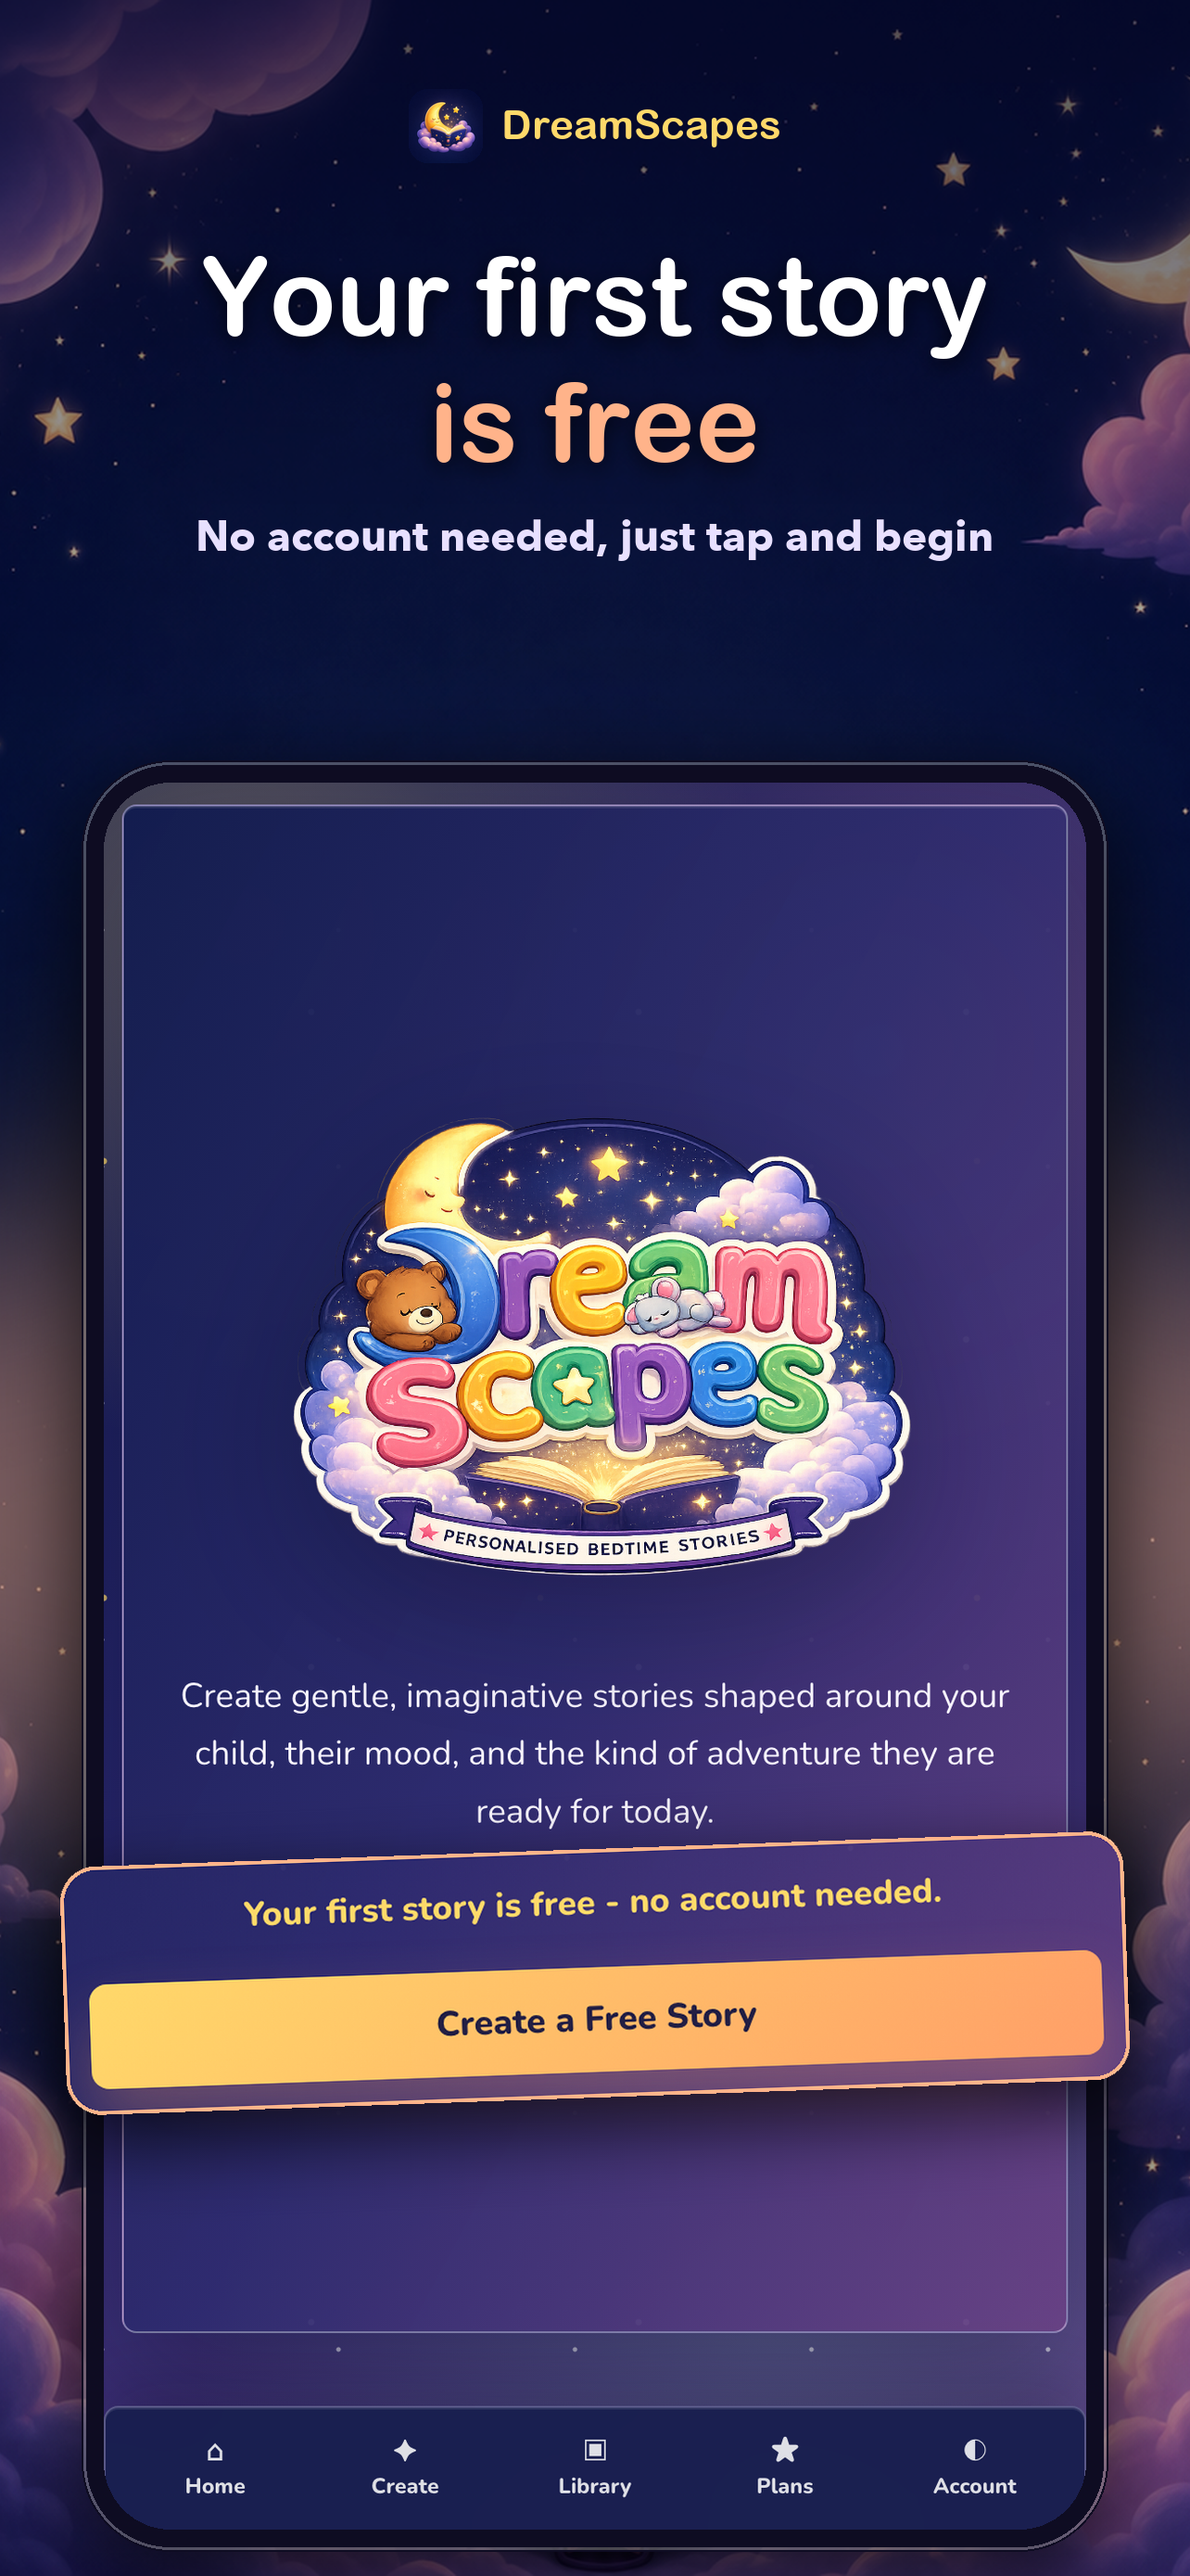
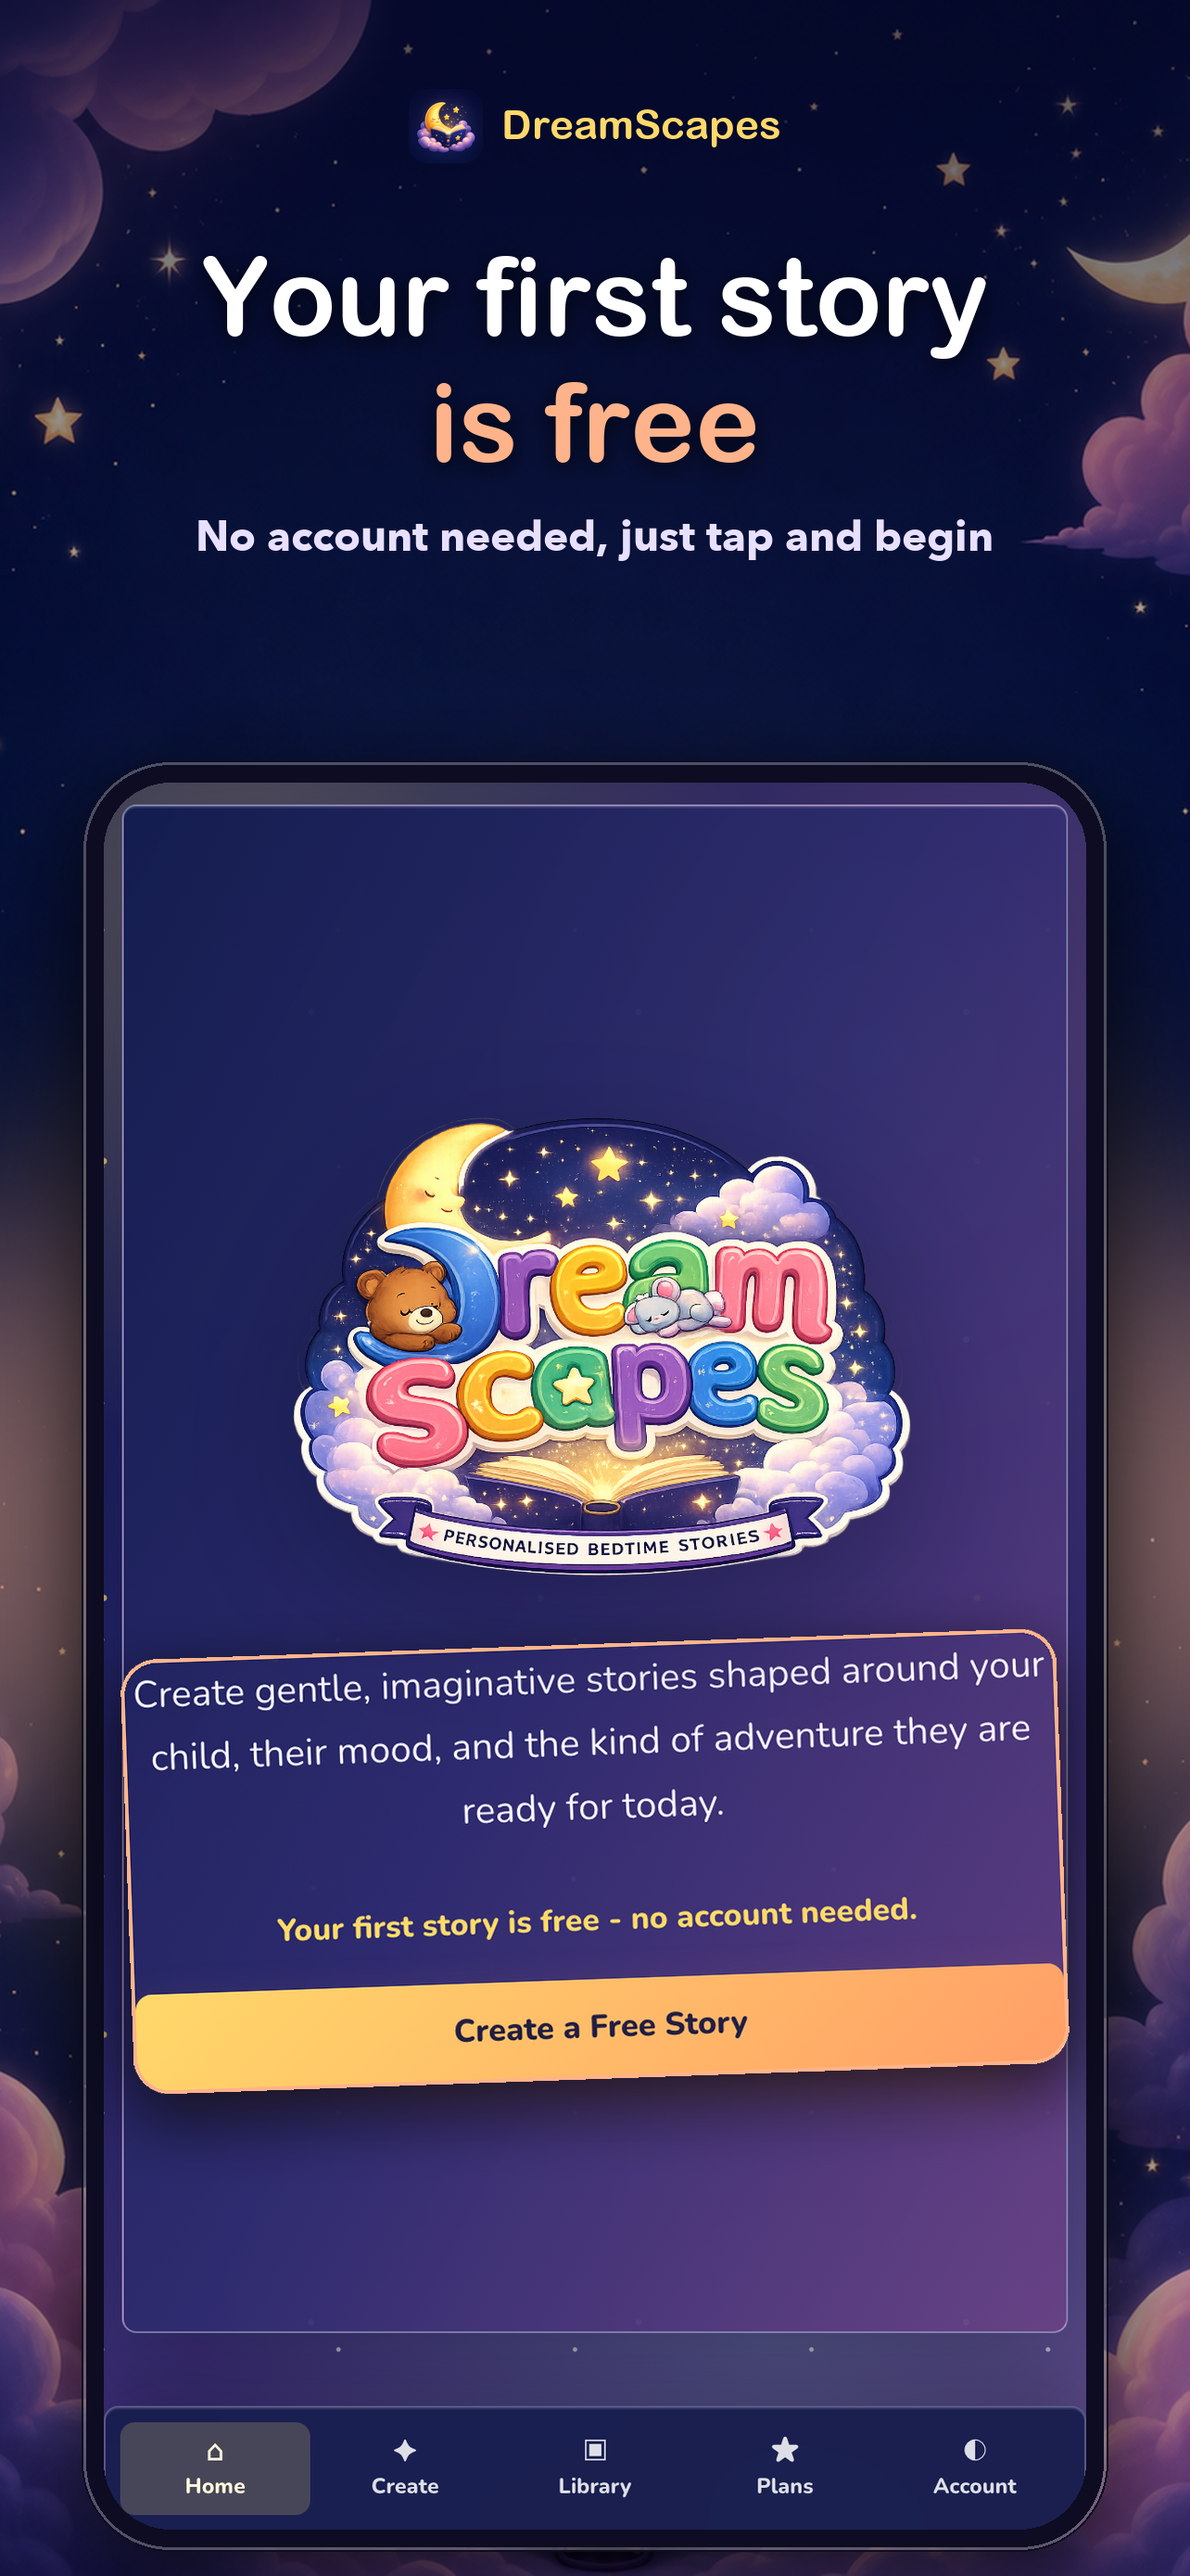
Lead the store with the thing that sells it
Every source is recaptured against the app as it is now - the library had
been photographed as a grid of cards and has been a list for hours, and the
home screen had moved on too.

The set now opens on personalisation rather than on never running out of
stories. The first screenshot is a real story with the child's name through
it, lifted out and enlarged, under "A bedtime story written for them". That
is the thing a parent is deciding about in the two seconds the App Store
gives a search result, and it was previously a subhead on a screenshot about
something else.

The iPhone script gained the per-screen zoom the iPad one already had. At a
fixed 1.2 the library callout could not frame two whole rows, so it cut the
second story in half - which rather undercut a screenshot captioned "night
after night".

Changed region(s): [[0.0312, 0.6192, 0.9657, 0.8359], [0.0935, 0.9287, 0.2804, 0.9906]]

diff --git a/scripts/build-ios-screenshots.py b/scripts/build-ios-screenshots.py
@@ -18,39 +18,39 @@ WIDTH, HEIGHT = 1284, 2778
 SCREEN_W, BEZEL, RADIUS = 1060, 24, 96
 DEVICE_TOP = 820
 
-# (output, source, accent, headline lines, subhead, callout region in source px, tilt,
-#  downward nudge for the callout so it clears the heading above it, badge)
-# Callout regions were measured from the live DOM at 540x960 and doubled for the
-# 2x capture, so each one frames a real piece of the app's UI.
+# (output, source, accent, headline lines, subhead, callout region in source px,
+#  zoom, tilt, downward nudge so the callout clears the heading above it, badge)
+# Regions were measured from the live DOM at 540x960 and doubled for the 2x
+# capture, so each one frames a real piece of the app's UI.
 SCREENS = [
-    ("01-bedtime-story.png", "05-story.png", "gold",
-     [("Never run out of", False), ("a bedtime story", True)],
-     "Personalised stories, starring your child",
-     (90, 1495, 990, 1740), -2, 0, "First story free  \u2022  No account needed"),
-    ("02-first-story-free.png", "01-home.png", "peach",
+    ("01-personalised.png", "story.png", "gold",
+     [("A bedtime story", False), ("written for them", True)],
+     "Their name, their favourite things, their bedtime",
+     (103, 838, 977, 1166), 1.2, -2, 0, "First story free  \u2022  No account needed"),
+    ("02-first-story-free.png", "home.png", "peach",
      [("Your first story", False), ("is free", True)],
      "No account needed, just tap and begin",
-     (56, 1198, 1024, 1419), 2, 0, None),
-    ("03-made-in-a-minute.png", "02-story-builder.png", "pink",
+     (76, 972, 1004, 1399), 1.1, 2, 0, None),
+    ("03-made-in-a-minute.png", "builder1.png", "pink",
      [("Made for tonight,", False), ("in about a minute", True)],
      "Just their name, their age and what they love",
-     (40, 995, 1032, 1205), 2, 45, None),
-    ("04-stories-continue.png", "03-library.png", "lilac",
+     (48, 1004, 1024, 1196), 1.2, 2, 45, None),
+    ("04-stories-continue.png", "library.png", "lilac",
      [("Stories continue", False), ("night after night", True)],
      "Seven-night journeys with the same characters",
-     (50, 515, 1030, 790), -2, 0, None),
-    ("05-calm-narration.png", "06-narration.png", "sky",
+     (58, 522, 1022, 1195), 1.0, -2, 0, None),
+    ("05-calm-narration.png", "narration.png", "sky",
      [("Calm narration", False), ("for lights-out", True)],
      "Seven soothing voices with DreamScapes Plus",
-     (60, 850, 1012, 1160), 2, 25, None),
-    ("06-in-control.png", "04-parent-controls.png", "mint",
+     (60, 850, 1012, 1160), 1.2, 2, 25, None),
+    ("06-in-control.png", "controls.png", "mint",
      [("You are always", False), ("in control", True)],
      "Choose what to avoid, and read every story first",
-     (40, 915, 1032, 1285), -2, 60, None),
+     (48, 922, 1024, 1278), 1.2, -2, 60, None),
 ]
 
 
-def build(output, source_name, accent_name, lines, subhead, region, tilt, dy, badge):
+def build(output, source_name, accent_name, lines, subhead, region, zoom, tilt, dy, badge):
     accent = d.ACCENTS[accent_name]
     source = Image.open(SOURCE_DIR / source_name).convert("RGBA")
 
@@ -70,7 +70,7 @@ def build(output, source_name, accent_name, lines, subhead, region, tilt, dy, ba
     canvas.alpha_composite(frame, (frame_x, DEVICE_TOP))
 
     screen_origin = (frame_x + BEZEL, DEVICE_TOP + BEZEL)
-    d.draw_callout(canvas, source, region, scale, screen_origin, 1.2, accent, tilt, radius=34, dy=dy)
+    d.draw_callout(canvas, source, region, scale, screen_origin, zoom, accent, tilt, radius=34, dy=dy)
 
     if badge:
         d.draw_badge(canvas, badge, (frame_x + frame.width - 250, DEVICE_TOP + 20), 40, 5)

diff --git a/scripts/build-ipad-13-screenshots.py b/scripts/build-ipad-13-screenshots.py
@@ -25,22 +25,22 @@ DEVICE_TOP = 880
 # Regions were measured from the live DOM at 1032x1376 and doubled for the 2x
 # capture, so each frames a real piece of the app's UI.
 SCREENS = [
-    ("01-bedtime-story.png", "story.png", "gold",
-     [("Never run out of", False), ("a bedtime story", True)],
-     "Personalised stories, starring your child",
-     (170, 1290, 1894, 1500), 1.15, -2, 0, "First story free  •  No account needed"),
+    ("01-personalised.png", "story.png", "gold",
+     [("A bedtime story", False), ("written for them", True)],
+     "Their name, their favourite things, their bedtime",
+     (186, 728, 1878, 969), 1.15, -2, 0, "First story free  \u2022  No account needed"),
     ("02-first-story-free.png", "home.png", "peach",
      [("Your first story", False), ("is free", True)],
      "No account needed, just tap and begin",
-     (402, 1582, 1662, 1803), 1.35, 2, 0, None),
-    ("03-made-in-a-minute.png", "builder.png", "pink",
+     (422, 1420, 1642, 1783), 1.35, 2, 0, None),
+    ("03-made-in-a-minute.png", "builder1.png", "pink",
      [("Made for tonight,", False), ("in about a minute", True)],
      "Just their name, their age and what they love",
-     (110, 1465, 1938, 1711), 1.15, 2, 40, None),
+     (120, 1475, 1928, 1701), 1.15, 2, 40, None),
     ("04-stories-continue.png", "library.png", "lilac",
      [("Stories continue", False), ("night after night", True)],
      "Seven-night journeys with the same characters",
-     (106, 498, 718, 1228), 1.35, -3, 0, None),
+     (116, 508, 1948, 949), 1.2, -3, 0, None),
     ("05-calm-narration.png", "narration.png", "sky",
      [("Calm narration", False), ("for lights-out", True)],
      "Seven soothing voices with DreamScapes Plus",
@@ -48,7 +48,7 @@ SCREENS = [
     ("06-in-control.png", "controls.png", "mint",
      [("You are always", False), ("in control", True)],
      "Choose what to avoid, and read every story first",
-     (110, 1465, 1938, 1711), 1.15, -2, 40, None),
+     (120, 1475, 1928, 1701), 1.15, -2, 40, None),
 ]
 
 
